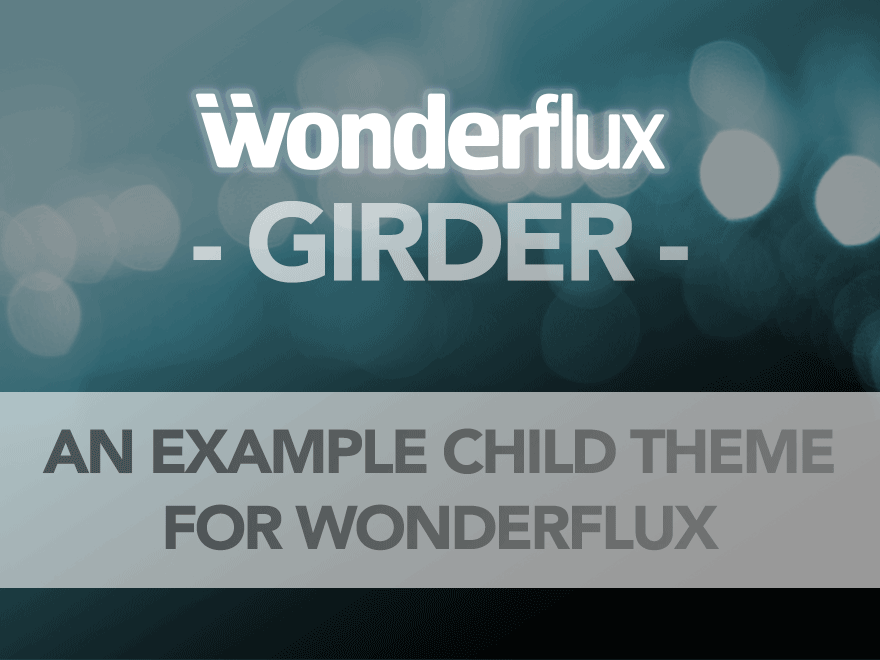
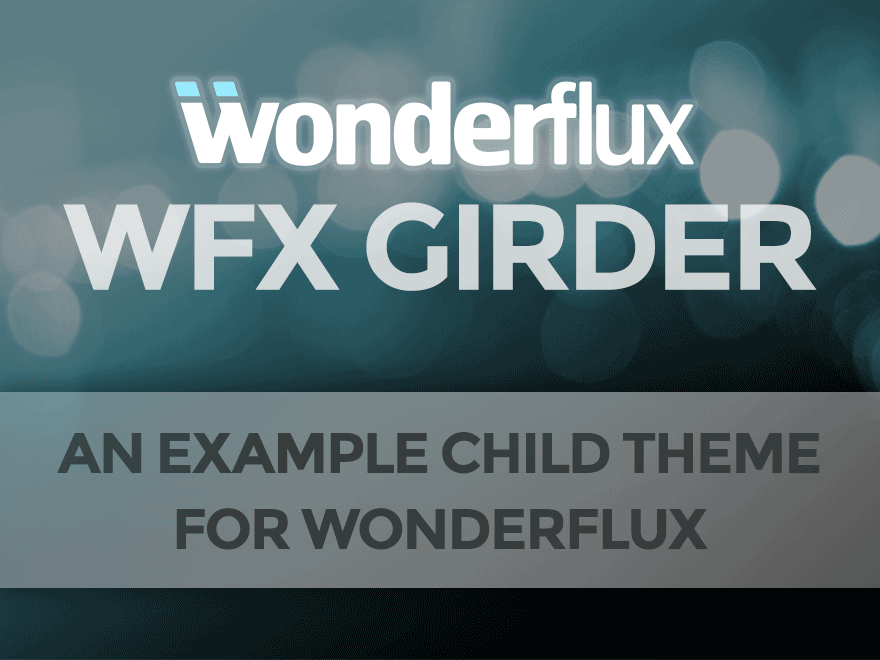
Update screenshot and readme
Update in-line with new Wonderflux v2 screenshot style and details theme features.

diff --git a/README.md b/README.md
@@ -37,6 +37,13 @@ REQUIRES the free, Open Source Wonderflux theme framework - available from https
 
 Read the Wonderflux getting started documentation at http://wonderflux.com/getting-started
 
+Theme features
+=================
+
+* Responsive layout
+* Automatic responsive menu for primary navigation
+* 2 editable menus (that auto-hide if not set in WordPress admin)
+* 3 editable widget areas
 
 Installation
 =================
